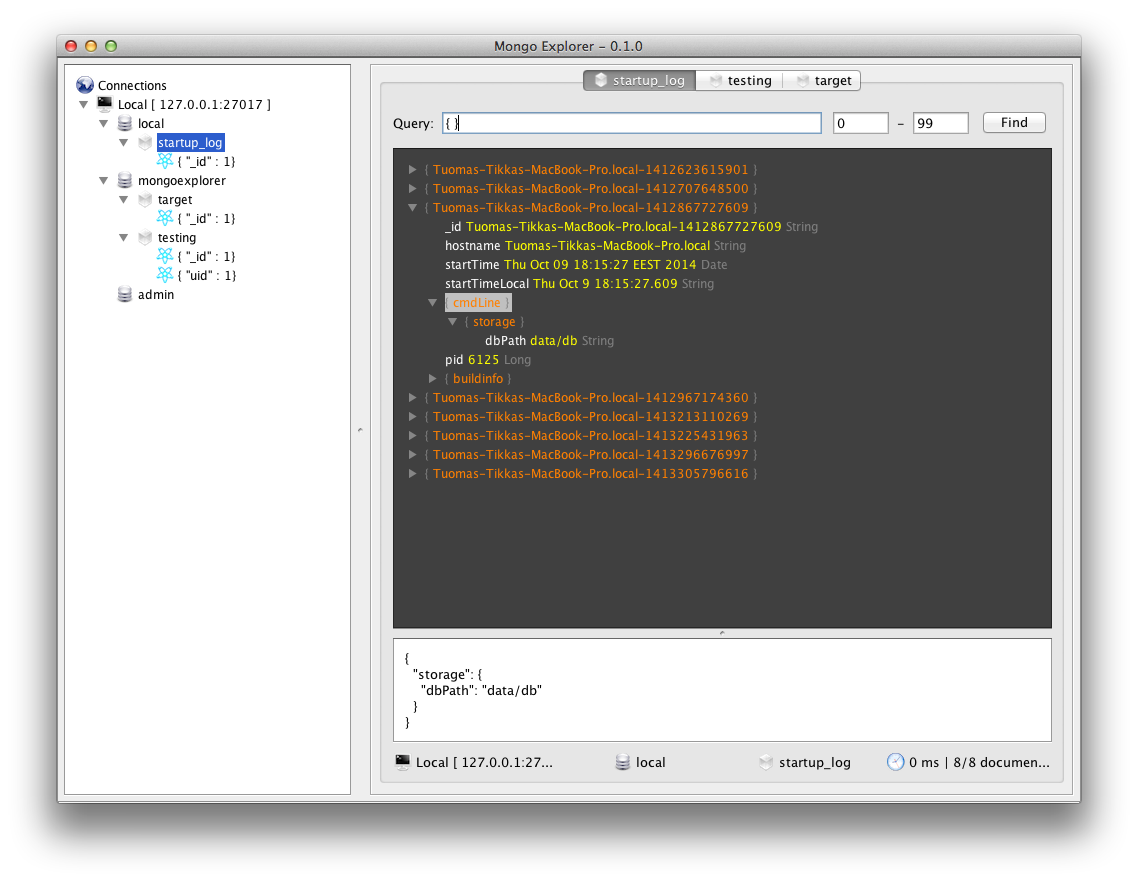
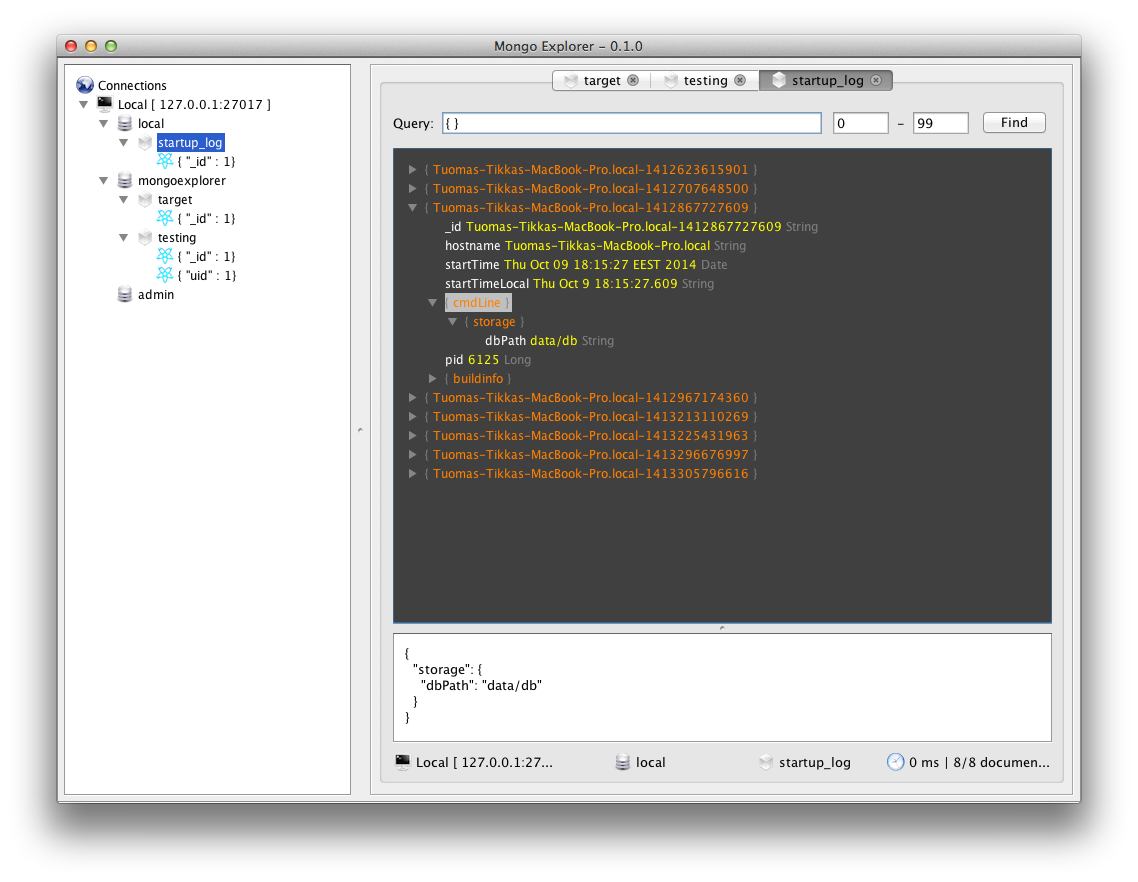
Updated screenshots and README

Changed region(s): [[0.3383, 0.7041, 0.9227, 0.7959], [0.4921, 0.0612, 0.7996, 0.1224]]

diff --git a/README.md b/README.md
@@ -3,7 +3,16 @@ MongoExplorer
 
 Cross-platform database management tool for MongoDB.
 
+Screenshots
+-----------
+
+Mongo Explorer running on Mac OS X.
+
 ![ScreenShot](/screenshots/ss_1.png)
+
+Mongo Explorer running on Windows 8.1.
+
+![ScreenShot](/screenshots/ss_2.png)
 
 Requirements
 ------------
